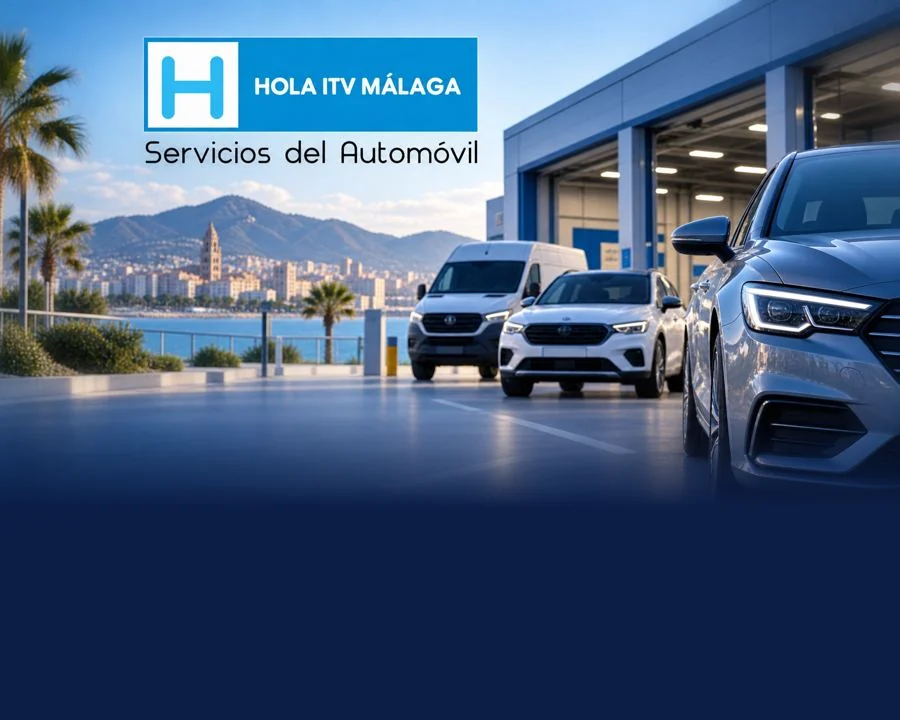
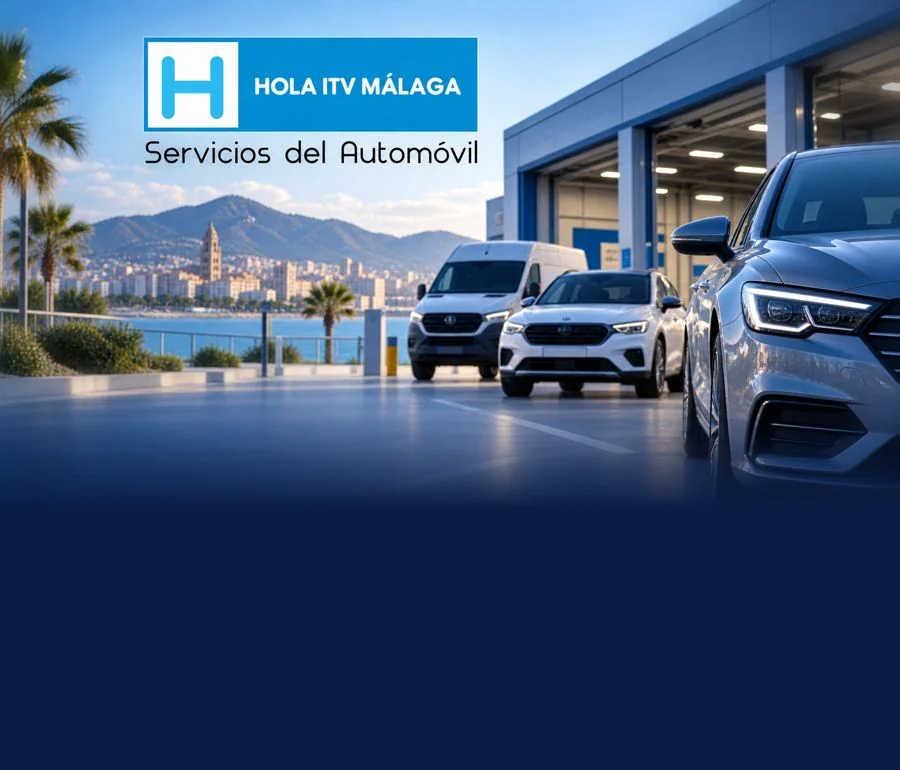
Tarjeta: banderas a la izquierda y portada algo más alta
Claude-Session: https://claude.ai/code/session_01GptZJ3rse1WkNTVn4doS7n

diff --git a/tarjetavisita.html b/tarjetavisita.html
@@ -33,7 +33,7 @@
 <meta name="twitter:description" content="Tu flota con la ITV al día, sin mover un dedo.">
 <meta name="twitter:image" content="https://holaitvmalaga.com/tarjeta-og.jpg">
 <link rel="icon" href="/favicon-32.png">
-<link rel="preload" as="image" href="/tarjeta-hero.webp?v=1">
+<link rel="preload" as="image" href="/tarjeta-hero.webp?v=2">
 <style>
 /* Tarjeta digital NFC · Mari Ángeles Pedrosa · Hola ITV Málaga · Powered by Limonada Web */
 :root{
@@ -762,6 +762,10 @@ html[lang="ar"] body{font-family:"Segoe UI",Tahoma,"Noto Sans Arabic","Geeza Pro
 
 /* ---- Hola ITV Málaga ---- */
 .hero{background:#0b1e46}
+.hero > .idiomas{right:auto!important;left:11px}
+@media (min-width:470px){.hero > .idiomas{left:18px}}
+.idiomas.peq{gap:3px;padding:3px}
+.idiomas.peq button{width:22px;height:15px}
 .hero .foto{max-height:none!important;aspect-ratio:auto!important;height:auto}
 .hero::after{height:42%}
 .hero .apellidos{color:#8fb4ff}
@@ -796,7 +800,7 @@ html[lang="ar"] body{font-family:"Segoe UI",Tahoma,"Noto Sans Arabic","Geeza Pro
 <main class="tarjeta">
 
   <header class="hero">
-    <img class="foto" src="/tarjeta-hero.webp?v=1" width="900" height="720" alt="Hola ITV Málaga · Servicios del Automóvil" fetchpriority="high">
+    <img class="foto" src="/tarjeta-hero.webp?v=2" width="900" height="770" alt="Hola ITV Málaga · Servicios del Automóvil" fetchpriority="high">
     <div class="idiomas" role="group" aria-label="Seleccionar idioma">
         <button class="activo" lang="es" onclick="setLang('es')" aria-label="Español" title="Español">
           <svg viewBox="0 0 3 2" aria-hidden="true"><rect width="3" height="2" fill="#c60b1e"/><rect y=".5" width="3" height="1" fill="#ffc400"/></svg>
@@ -983,6 +987,15 @@ const TRANS = {
   it:{"lema": "L’ITV della tua flotta sempre in regola, senza muovere un dito", "llamar": "Chiama", "escribir": "Scrivici", "web": "Sito web", "guardar": "Salva contatto", "compartir": "Condividi", "botTit": "Chiedi a HolaBot", "botSub": "Risposte immediate sull’ITV della tua flotta", "srvLabel": "Servizio esclusivo per professionisti", "t0": "Concessionari", "t1": "Noleggio auto", "t2": "Flotte aziendali", "t3": "Ritiro e consegna", "t4": "Gestione appuntamenti", "t5": "Tasse: anticipate o tuo conto", "copiado": "Link copiato", "noCopia": "Impossibile copiare", "shareTxt": "Ti invio la scheda di Mari Ángeles Pedrosa, Hola ITV Málaga:", "compartirV": "Condividi", "vsTxt": "Guarda questo video di Hola ITV Málaga", "cargo": "Gestione completa ITV", "empresa": "Servizi per l’auto", "c1": "Concessionari", "c2": "Noleggio", "c3": "Flotte", "guardTit": "Salva contatto", "guardSub": "Salva in rubrica", "webTit": "Sito web", "contacto": "Contatto diretto", "videos": "Video", "v0T": "La tua ITV, senza andare all’ITV", "v0S": "Come funziona, in 30 secondi", "v1T": "I nostri servizi", "v1S": "Hola ITV Málaga in 40 secondi", "v2T": "Buon Natale!", "v2S": "I nostri auguri 2026", "compartirTxt": "Condividi questo biglietto", "lema2": "SERVIZI PER L’AUTO", "nfc": "Biglietto digitale NFC", "pie": "Powered by", "pieSub": "Spremiamo Internet per la tua attività", "pista": "Scorri per vedere di più", "s0": "Immatricolazioni e stock in regola", "s1": "La tua flotta sempre disponibile", "s2": "Controllo delle scadenze", "s3": "Ritiriamo il veicolo", "s4": "Prenotiamo noi l’appuntamento", "s5": "Come preferisci"},
   de:{"lema": "Die ITV Ihrer Flotte immer aktuell – ganz ohne Aufwand", "llamar": "Anrufen", "escribir": "Schreiben Sie uns", "web": "Webseite", "guardar": "Kontakt speichern", "compartir": "Teilen", "botTit": "HolaBot fragen", "botSub": "Sofort Antworten zur ITV Ihrer Flotte", "srvLabel": "Exklusiver Service für Gewerbekunden", "t0": "Autohäuser", "t1": "Autovermietung", "t2": "Firmenflotten", "t3": "Abholung & Rückgabe", "t4": "Terminvereinbarung", "t5": "Gebühren: vorgestreckt oder Ihr Konto", "copiado": "Link kopiert", "noCopia": "Kopieren nicht möglich", "shareTxt": "Hier die Karte von Mari Ángeles Pedrosa, Hola ITV Málaga:", "compartirV": "Teilen", "vsTxt": "Sehen Sie sich dieses Video von Hola ITV Málaga an", "cargo": "Komplette ITV-Abwicklung", "empresa": "Kfz-Service", "c1": "Autohäuser", "c2": "Autovermietung", "c3": "Flotten", "guardTit": "Kontakt speichern", "guardSub": "Zu Kontakten", "webTit": "Webseite", "contacto": "Direkter Kontakt", "videos": "Videos", "v0T": "Ihre ITV – ohne zur ITV zu fahren", "v0S": "So funktioniert es, in 30 Sekunden", "v1T": "Unsere Leistungen", "v1S": "Hola ITV Málaga in 40 Sekunden", "v2T": "Frohe Weihnachten!", "v2S": "Unser Gruß 2026", "compartirTxt": "Karte teilen", "lema2": "KFZ-SERVICE", "nfc": "Digitale NFC-Karte", "pie": "Powered by", "pieSub": "Wir holen alles aus dem Internet für Ihr Geschäft", "pista": "Wischen für mehr", "s0": "Zulassungen und Bestand aktuell", "s1": "Ihre Flotte immer einsatzbereit", "s2": "Fristen im Blick", "s3": "Wir holen das Fahrzeug ab", "s4": "Wir buchen den Termin für Sie", "s5": "Wie es Ihnen am besten passt"}
 };
+/* Banderas: una columna si no pisan el nombre; si no, dos. */
+(function(){
+  var idi=document.querySelector('.hero > .idiomas'), nom=document.querySelector('.hero .nombre');
+  if(!idi||!nom) return;
+  function pisa(){ return idi.getBoundingClientRect().bottom>nom.getBoundingClientRect().top-6; }
+  function ajustar(){ idi.classList.remove('dos','peq'); if(pisa()) idi.classList.add('peq'); if(pisa()){ idi.classList.remove('peq'); idi.classList.add('dos'); } }
+  var img=document.querySelector('.hero .foto'); if(img && !img.complete) img.addEventListener('load',ajustar);
+  ajustar(); window.addEventListener('resize',ajustar,{passive:true});
+})();
 function tt(k){ var t=TRANS[document.documentElement.lang]||TRANS.es; return t[k]||TRANS.es[k]||''; }
 function setLang(lang){
   var t = TRANS[lang];
